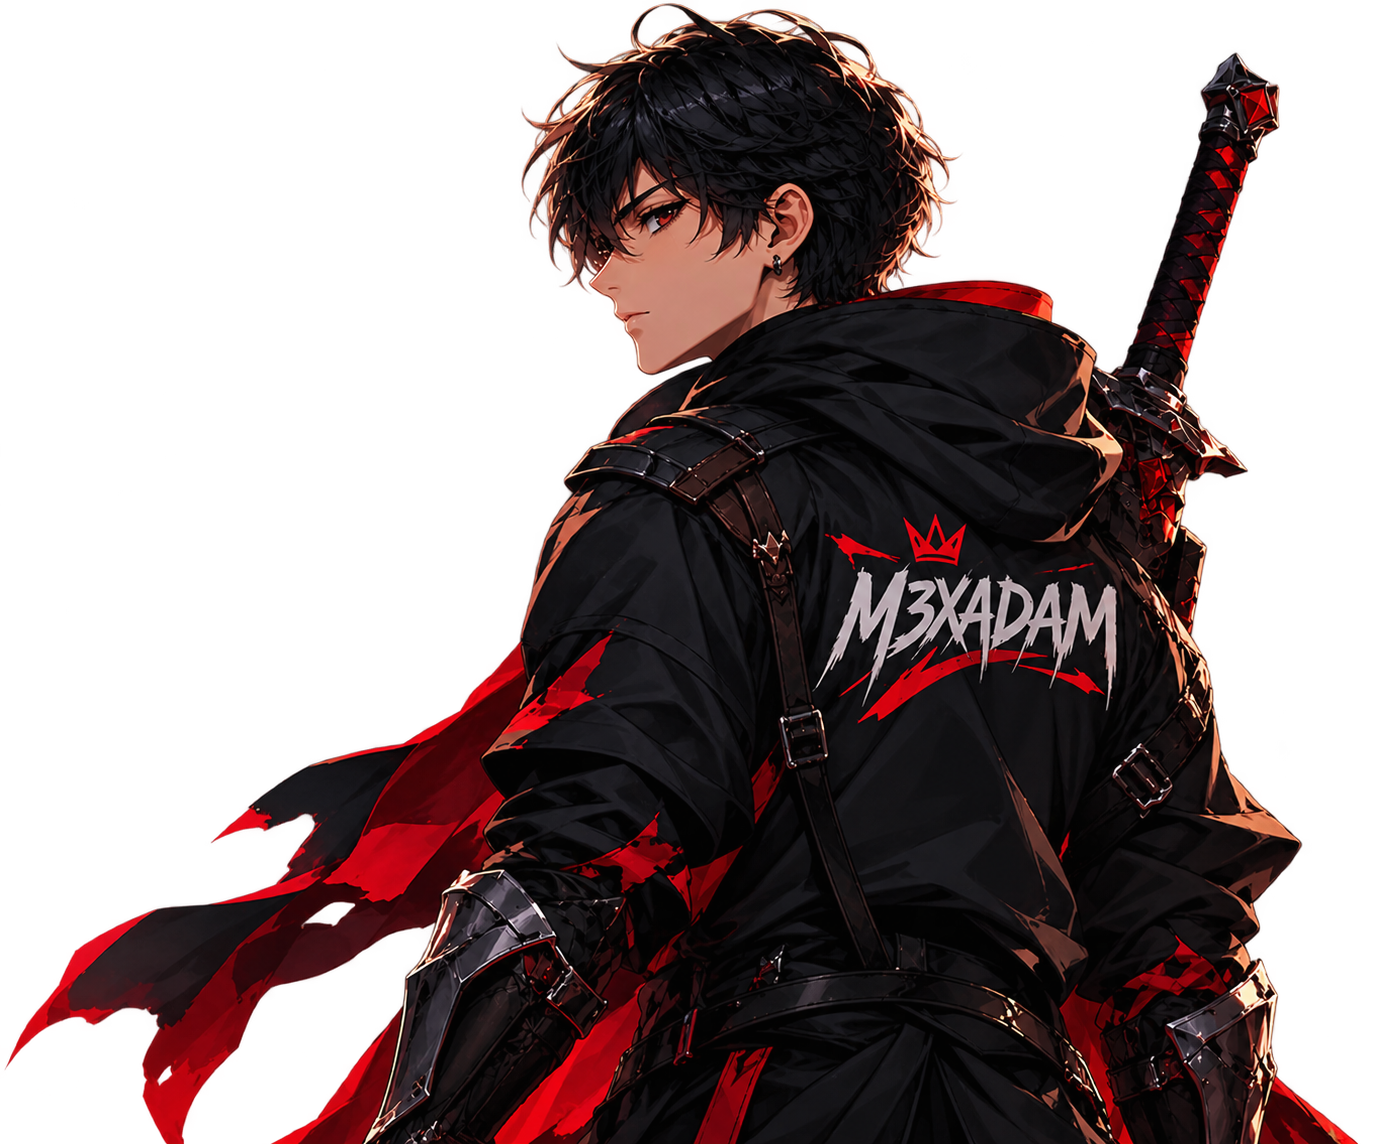
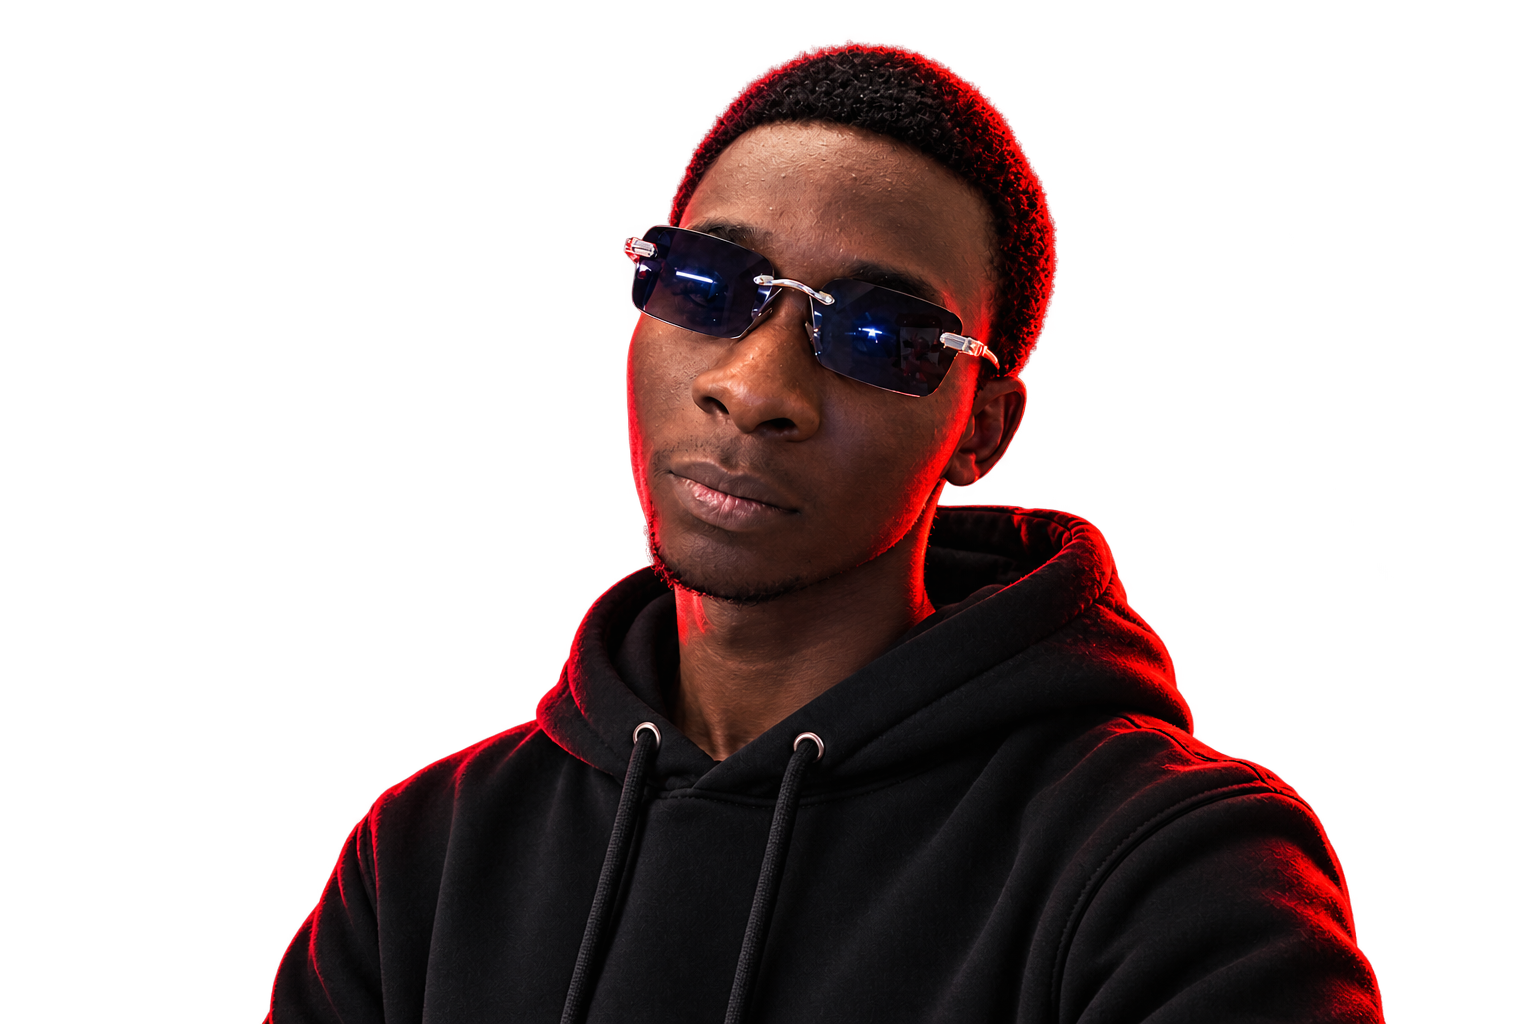
passport changed

diff --git a/src/css/hero.css b/src/css/hero.css
@@ -21,9 +21,11 @@
 
 .passport{
     width: 100%;
-    height: 100%;
-    /* border-radius: 50%; */
+    height: 80%;
+    border-radius: 50%;
 }
+
+
 
 .herosection {
     width: 100%;
